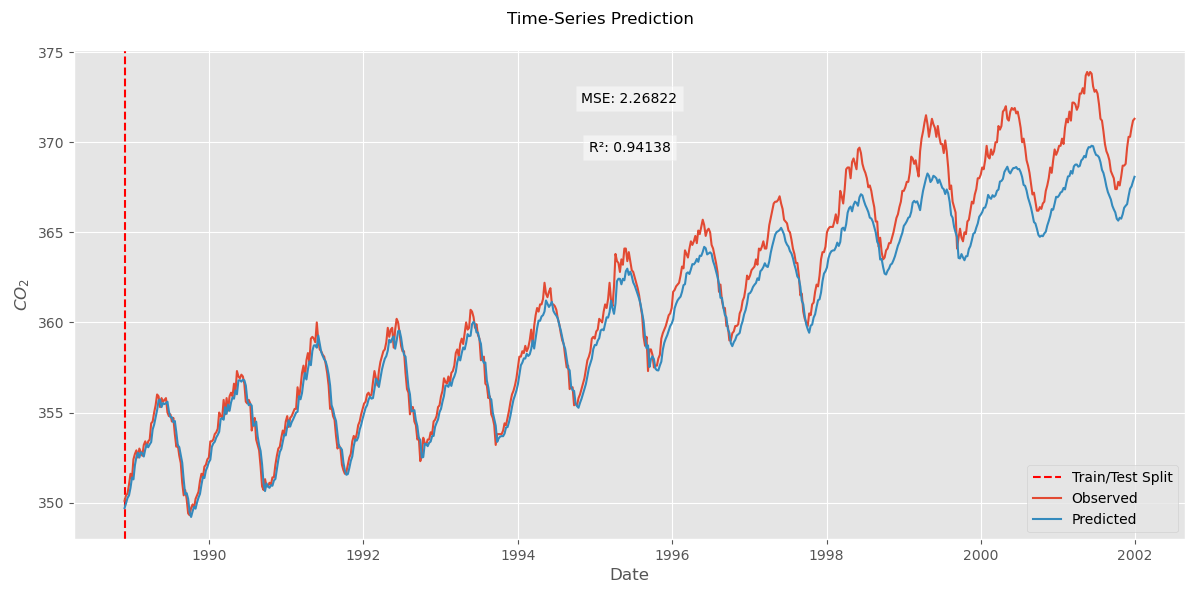
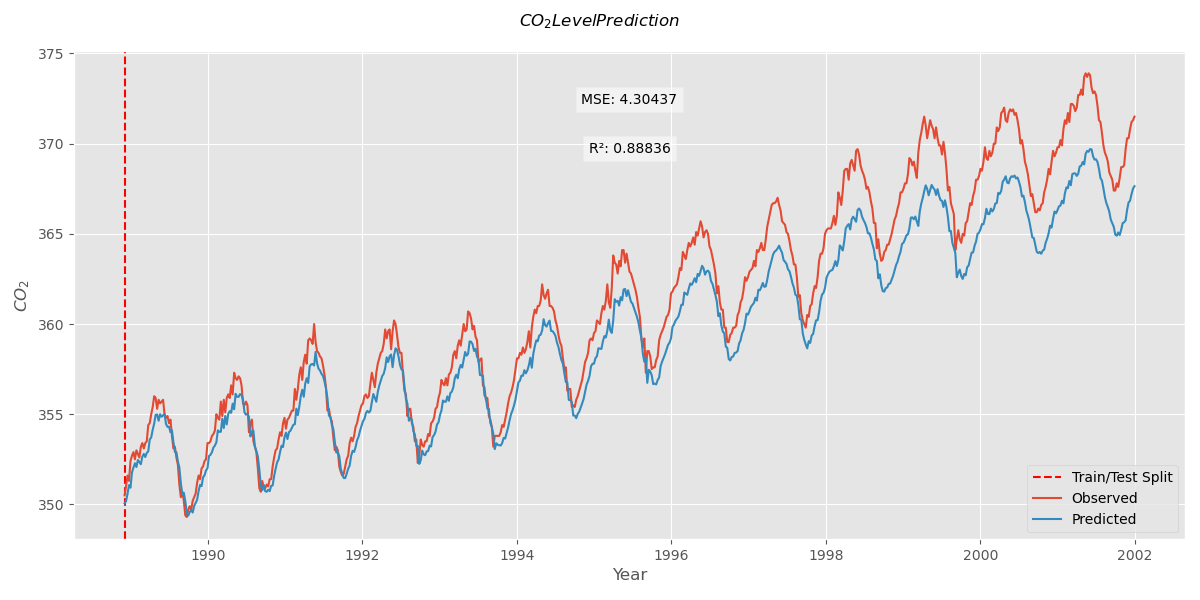
update the LSTM model structure for multi layers support

diff --git a/_episodes/06-advanced-techniques.md b/_episodes/06-advanced-techniques.md
@@ -96,33 +96,6 @@ plt.show()
 
 This visualization step helps us understand the overall trend and seasonality in the data, setting the stage for building our LSTM model. Through this tutorial, you will learn how to preprocess the data, construct the LSTM network, and evaluate its performance in forecasting future passenger numbers.
 
-### Normalization 
-
-
-To prepare the data for the LSTM, we need to normalize it. Normalization scales the data to a range between 0 and 1, which helps the neural network to train more efficiently and accurately.
-
-~~~
-# normalization
-sc = MinMaxScaler()
-features = df.iloc[:,:].values
-training_data = sc.fit_transform(features)
-training_data
-~~~
-{: .python}
-
-~~~
-array([[0.05090312],
-       [0.07060755],
-       [0.07553366],
-       ...,
-       [0.95566502],
-       [0.95730706],
-       [0.96059113]])
-~~~
-{: .output}
-
-Through this section, you see  how to preprocess the data and proceed to construct the LSTM network, and evaluate its performance in forecasting future \\(CO_2 \\) levels. 
-
 
 ### Data Windowing for Time Series
 
@@ -157,62 +130,62 @@ In the remainder of this section, we define a `sliding_windows` class. This clas
 The sliding window generator class is crucial for preparing data for time series forecasting. The code below demonstrates its implementation:
 
 ~~~
+# Sliding window generation class
 class SlidingWindowGenerator:
-    def __init__(self, seq_length, label_width, shift, df, label_columns=None):
-        # Store the raw data.
+    def __init__(self, seq_length, label_width, shift, df, label_columns=None, dropnan=True):
         self.df = df
-
-        # Label column indices.
         self.label_columns = label_columns
+        self.dropnan = dropnan
         if label_columns is not None:
             self.label_columns_indices = {name: i for i, name in enumerate(label_columns)}
         self.column_indices = {name: i for i, name in enumerate(df.columns)}
-
-        # Window parameters.
         self.seq_length = seq_length
         self.label_width = label_width
         self.shift = shift
         self.total_window_size = seq_length + shift
-
         self.input_slice = slice(0, seq_length)
         self.input_indices = np.arange(self.total_window_size)[self.input_slice]
 
         self.label_start = self.total_window_size - label_width
         self.labels_slice = slice(self.label_start, None)
         self.label_indices = np.arange(self.total_window_size)[self.labels_slice]
-
     def __repr__(self):
         return '\n'.join([
             f'Total window size: {self.total_window_size}',
             f'Input indices: {self.input_indices}',
             f'Label indices: {self.label_indices}',
             f'Label column name(s): {self.label_columns}'])
-    def sliding_windows(self, data):
-        x = []
-        y = []
-
-        for i in range(len(data)-self.seq_length-1):
-            window = data[i:(i+self.seq_length)]
-            after_window = data[i+self.seq_length]
-            x.append(window)
-            y.append(after_window)
-
-        return np.array(x), np.array(y)
+    def sliding_windows(self):
+        data = self.df.values
+        X, y = [], []
+        for i in range(len(data) - self.total_window_size + 1):
+            input_window = data[i:i + self.seq_length]
+            label_window = data[i + self.seq_length:i + self.total_window_size]
+            X.append(input_window)
+            if self.label_columns is not None:
+                label_window = label_window[:, [self.column_indices[name] for name in self.label_columns]]
+            y.append(label_window)
+        X, y = np.array(X), np.array(y)
+        if self.dropnan:
+            X = X[~np.isnan(X).any(axis=(1, 2))]
+            y = y[~np.isnan(y).any(axis=(1, 2))]
+        return X, y.reshape(-1,1)
 ~~~
 {: .python}
 
 The code initializes a sliding window generator with specified parameters, including input width, label width, and shift. Below is an example demonstrating how to create and use a sliding window generator with a DataFrame:
 ~~~
-windows = SlidingWindowGenerator(seq_length=5, label_width=1, shift=1, df=df, label_columns=['co2'])
-windows
+# Initialize the generator
+swg = SlidingWindowGenerator(seq_length=4, label_width=5, shift=1, df=df, label_columns=['co2'])
+print(swg)
 ~~~
 {: .python}
 
 
 ~~~
-Total window size: 6
-Input indices: [0 1 2 3 4]
-Label indices: [5]
+Total window size: 5
+Input indices: [0 1 2 3]
+Label indices: [4]
 Label column name(s): ['co2']
 ~~~
 {: .output}
@@ -220,21 +193,22 @@ Label column name(s): ['co2']
 
 
 ~~~
-X, y = windows.sliding_windows(training_data)
+# Generate windows
+X, y = swg.sliding_windows()
 X.shape, y.shape
 ~~~
 {: .python}
 
 
 ~~~
-((2278, 5, 1), (2278, 1))
+((2279, 4, 1), (2279, 1))
 ~~~
 {: .output}
 
 
 The arrays `X` and `y` store these windows and targets, respectively, and are converted to NumPy arrays for efficient computation.
 
-By setting `seq_length = 5`, we generate sequences length of 5 with offset 1 where each input sequence consists of five time steps, and the corresponding target is the value immediately following this sequence.
+By setting `seq_length = 4`, we generate sequences length of 4 with offset 1 where each input sequence consists of four time steps, and the corresponding target is the value immediately following this sequence.
 
 This preprocessing step prepares the data for the LSTM network, enabling it to learn from the sequential patterns in the time series and predict future \\(CO_2\\) levels based on past observations.
 
@@ -245,6 +219,13 @@ First, we need to split the dataset into training and testing sets and convert t
 
 
 ~~~
+# Normalize the data
+scaler_X = MinMaxScaler()
+scaler_y = MinMaxScaler()
+
+X = scaler_X.fit_transform(X)
+y = scaler_y.fit_transform(y)
+
 # train and test data loading in tensor format
 train_size = int(len(y) * 0.7)
 test_size = len(y) - train_size
@@ -257,8 +238,6 @@ y_train = Variable(torch.Tensor(np.array(y[0:train_size])))
 
 X_test = Variable(torch.Tensor(np.array(X[train_size:len(X)])))
 y_test = Variable(torch.Tensor(np.array(y[train_size:len(y)])))
-
-
 ~~~
 {: .python}
 
@@ -268,36 +247,21 @@ Next, we define our LSTM model by creating a class that inherits from nn.Module.
 
 ~~~
 # the LSTM model building
+
 class LSTM(nn.Module):
-
-    def __init__(self, num_classes, input_size, hidden_size, num_layers):
+    def __init__(self, input_size, hidden_size, num_layers, output_size):
         super(LSTM, self).__init__()
-
-        self.num_classes = num_classes
-        self.num_layers = num_layers
-        self.input_size = input_size
         self.hidden_size = hidden_size
-        self.seq_length = seq_length
-
-        self.lstm = nn.LSTM(input_size=input_size, hidden_size=hidden_size,
-                            num_layers=num_layers, batch_first=True)
-
-        self.fc = nn.Linear(hidden_size, num_classes)
+        self.num_layers = num_layers
+        self.lstm = nn.LSTM(input_size, hidden_size, num_layers, batch_first=True)
+        self.fc = nn.Linear(hidden_size, output_size)
 
     def forward(self, x):
-        h_0 = Variable(torch.zeros(
-            self.num_layers, x.size(0), self.hidden_size))
-
-        c_0 = Variable(torch.zeros(
-            self.num_layers, x.size(0), self.hidden_size))
-
-        # Propagate input through LSTM
-        ula, (h_out, _) = self.lstm(x, (h_0, c_0))
-
-        h_out = h_out.view(-1, self.hidden_size)
-
-        out = self.fc(h_out)
-
+        h0 = torch.zeros(self.num_layers, x.size(0), self.hidden_size)
+        c0 = torch.zeros(self.num_layers, x.size(0), self.hidden_size)
+        
+        out, _ = self.lstm(x, (h0, c0))
+        out = self.fc(out[:, -1, :])
         return out
 ~~~
 {: .python}
@@ -311,9 +275,9 @@ learning_rate = 0.01
 input_size = 1
 hidden_size = 3
 num_layers = 1
-num_classes = 1
+output_size = 1
 
-lstm = LSTM(num_classes, input_size, hidden_size, num_layers)
+lstm = LSTM(input_size, hidden_size, num_layers, output_size)
 
 criterion = torch.nn.MSELoss()    # mean-squared error for regression
 optimizer = torch.optim.Adam(lstm.parameters(), lr=learning_rate)
@@ -336,19 +300,19 @@ for epoch in range(num_epochs):
 {: .python}
 
 ~~~
-Epoch: 0, loss: 0.50757
-Epoch: 100, loss: 0.01297
-Epoch: 200, loss: 0.00028
-Epoch: 300, loss: 0.00020
+Epoch: 0, loss: 0.06325
+Epoch: 100, loss: 0.00028
+Epoch: 200, loss: 0.00018
+Epoch: 300, loss: 0.00017
 Epoch: 400, loss: 0.00016
 Epoch: 500, loss: 0.00015
 Epoch: 600, loss: 0.00014
-....
-Epoch: 1500, loss: 0.00010
-Epoch: 1600, loss: 0.00010
-Epoch: 1700, loss: 0.00009
-Epoch: 1800, loss: 0.00009
-Epoch: 1900, loss: 0.00009
+...
+Epoch: 1500, loss: 0.00008
+Epoch: 1600, loss: 0.00007
+Epoch: 1700, loss: 0.00007
+Epoch: 1800, loss: 0.00007
+Epoch: 1900, loss: 0.00006
 ~~~
 {: .output}
 The training loop runs for 2000 epochs, and the loss is printed every 100 epochs to monitor the training process.
@@ -417,27 +381,6 @@ By following these steps, you will preprocess the data, construct an LSTM networ
 > > X_test = Variable(torch.Tensor(np.array(X[train_size:len(X)])))
 > > y_test = Variable(torch.Tensor(np.array(y[train_size:len(y)])))
 > > # LSTM model building
-> > class LSTM(nn.Module):
-> >    def __init__(self, num_classes, input_size, hidden_size, num_layers):
-> >        super(LSTM, self).__init__()
-> >        
-> >        self.num_classes = num_classes
-> >        self.num_layers = num_layers
-> >        self.input_size = input_size
-> >        self.hidden_size = hidden_size
-> >        self.seq_length = seq_length
-> >        self.lstm = nn.LSTM(input_size=input_size, hidden_size=hidden_size,
-> >                            num_layers=num_layers, batch_first=True)
-> >        self.fc = nn.Linear(hidden_size, num_classes)
-> >    def forward(self, x):
-> >        h_0 = Variable(torch.zeros(
-> >           self.num_layers, x.size(0), self.hidden_size))
-> >        c_0 = Variable(torch.zeros(
-> >            self.num_layers, x.size(0), self.hidden_size))
-> >        ula, (h_out, _) = self.lstm(x, (h_0, c_0))
-> >        h_out = h_out.view(-1, self.hidden_size)
-> >        out = self.fc(h_out)
-> >        return out
 > > # Training the model
 > > num_epochs = 2000
 > > learning_rate = 0.01
@@ -445,7 +388,7 @@ By following these steps, you will preprocess the data, construct an LSTM networ
 > > hidden_size = 5
 > > num_layers = 1
 > > num_classes = 1
-> > lstm = LSTM(num_classes, input_size, hidden_size, num_layers)
+> > lstm = LSTM(input_size, hidden_size, num_layers, output_size)
 > > criterion = torch.nn.MSELoss()    # Mean-squared error for regression
 > > optimizer = torch.optim.Adam(lstm.parameters(), lr=learning_rate)
 > > # Train the model
